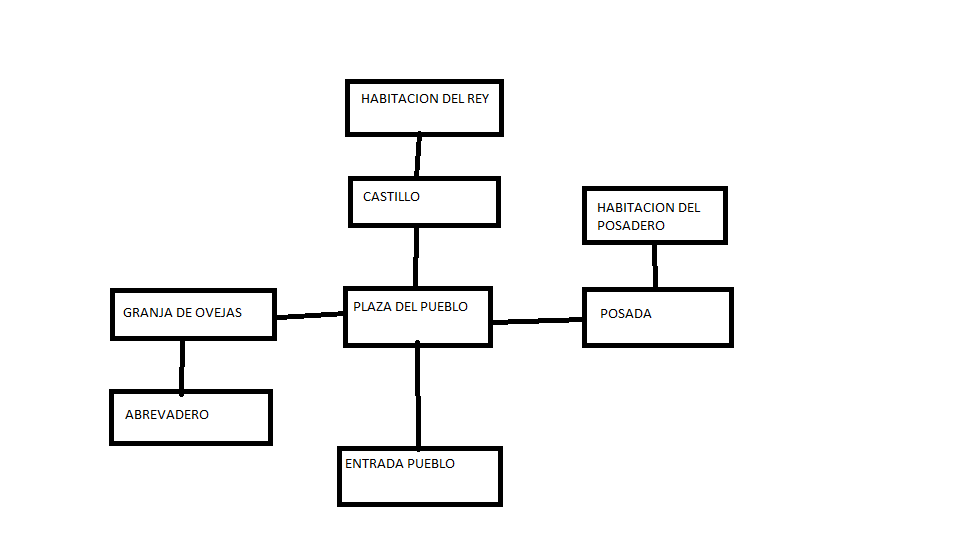
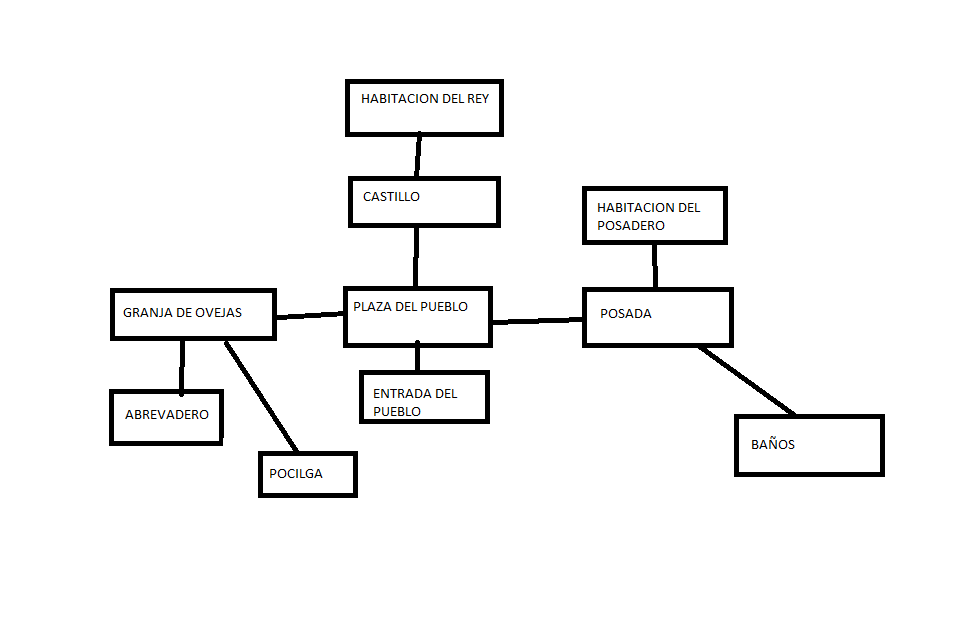
commit 04. Modificadas clases Game y Room para añadir una nueva salida sureste

Changed region(s): [[0.0938, 0.1185, 0.9375, 0.9481]]

diff --git a/Room.java b/Room.java
@@ -19,7 +19,7 @@ public class Room
     public Room southExit;
     public Room eastExit;
     public Room westExit;
-
+    public Room southEastExit;
     /**
      * Create a room described "description". Initially, it has
      * no exits. "description" is something like "a kitchen" or
@@ -38,8 +38,9 @@ public class Room
      * @param east The east east.
      * @param south The south exit.
      * @param west The west exit.
+     * @param southEast The southeast exit.
      */
-    public void setExits(Room north, Room east, Room south, Room west) 
+    public void setExits(Room north, Room east, Room south, Room west, Room southEast) 
     {
         if(north != null)
             northExit = north;
@@ -49,6 +50,8 @@ public class Room
             southExit = south;
         if(west != null)
             westExit = west;
+        if(southEast != null)
+            southEastExit = southEast;
     }
 
     /**
